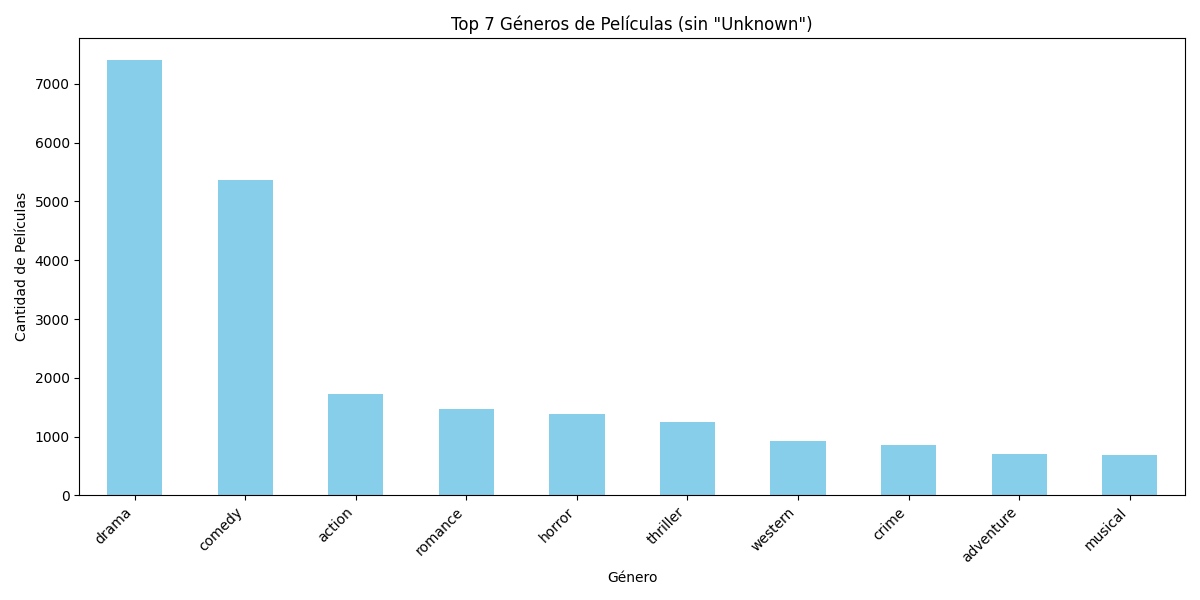
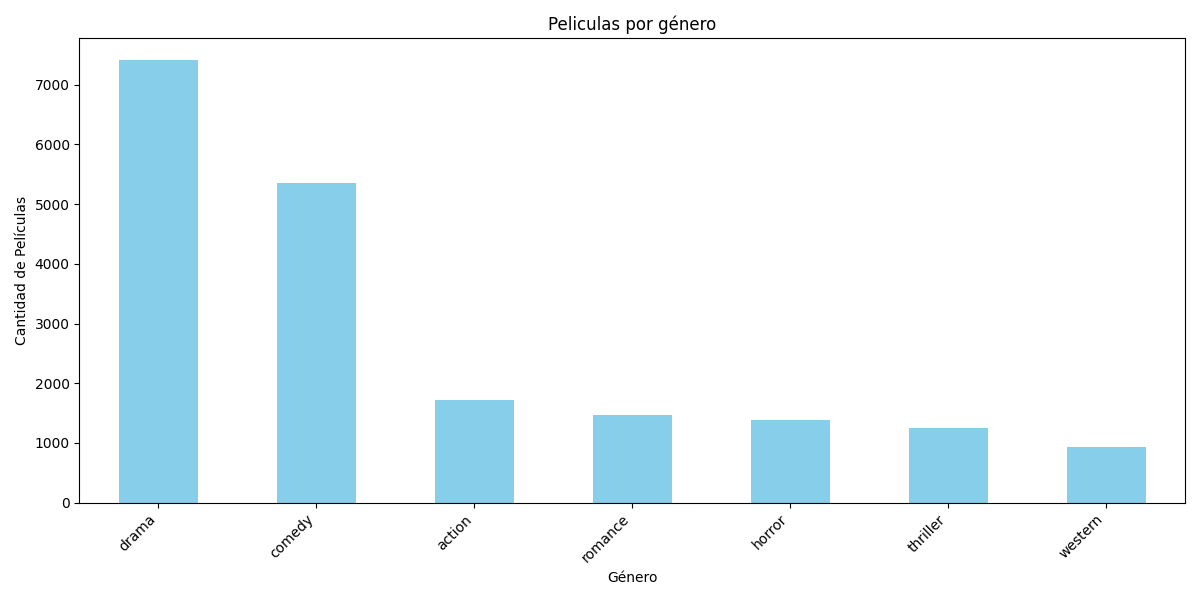
add new plots

diff --git a/src/Genre.py b/src/Genre.py
@@ -11,12 +11,12 @@ genres = df['Genre'].str.split(', ')
 genre_counts = pd.Series([genre for sublist in genres for genre in sublist]).value_counts()
 
 # Filtra los géneros para excluir "Unknown" y toma los primeros 7
-top_genres = genre_counts[genre_counts.index != 'unknown'].head(10)
+top_genres = genre_counts[genre_counts.index != 'unknown'].head(20)
 
 # Crea el gráfico
 plt.figure(figsize=(12, 6))
 top_genres.plot(kind='bar', color='skyblue')
-plt.title('Top 7 Géneros de Películas (sin "Unknown")')
+plt.title('Peliculas por género')
 plt.xlabel('Género')
 plt.ylabel('Cantidad de Películas')
 plt.xticks(rotation=45, ha='right')  # Rotar las etiquetas del eje x para una mejor visualización
